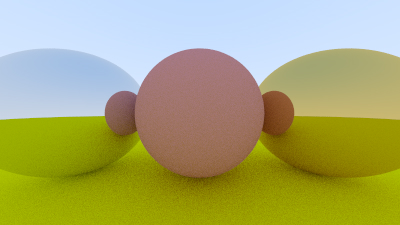
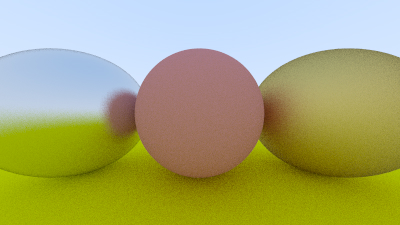
fuzz

diff --git a/lib/material.hpp b/lib/material.hpp
@@ -33,18 +33,19 @@ class lambertian : public material {
 
 class metal : public material {
  public:
-  metal(const color& a) : albedo(a) {}
+  metal(const color& a, double f) : albedo(a), fuzz(f < 1 ? f : 1) {}
 
   virtual bool scatter(const ray& r_in, const hit_record& rec,
                        color& attenuation, ray& scattered) const override {
     vec3 reflected = reflect(unit_vector(r_in.direction()), rec.normal);
-    scattered = ray(rec.p, reflected);
+    scattered = ray(rec.p, reflected + fuzz * random_in_unit_sphere());
     attenuation = albedo;
     return (dot(scattered.direction(), rec.normal) > 0);
   }
 
  public:
   color albedo;
+  double fuzz;
 };
 
 #endif

diff --git a/main.cpp b/main.cpp
@@ -48,8 +48,8 @@ int main() {
 
   auto material_ground = make_shared<lambertian>(color(0.8, 0.8, 0.0));
   auto material_center = make_shared<lambertian>(color(0.7, 0.3, 0.3));
-  auto material_left = make_shared<metal>(color(0.8, 0.8, 0.8));
-  auto material_right = make_shared<metal>(color(0.8, 0.6, 0.2));
+  auto material_left = make_shared<metal>(color(0.8, 0.8, 0.8), 0.3);
+  auto material_right = make_shared<metal>(color(0.8, 0.6, 0.2), 1.0);
 
   world.add(
       make_shared<sphere>(point3(0.0, -100.5, -1.0), 100.0, material_ground));
